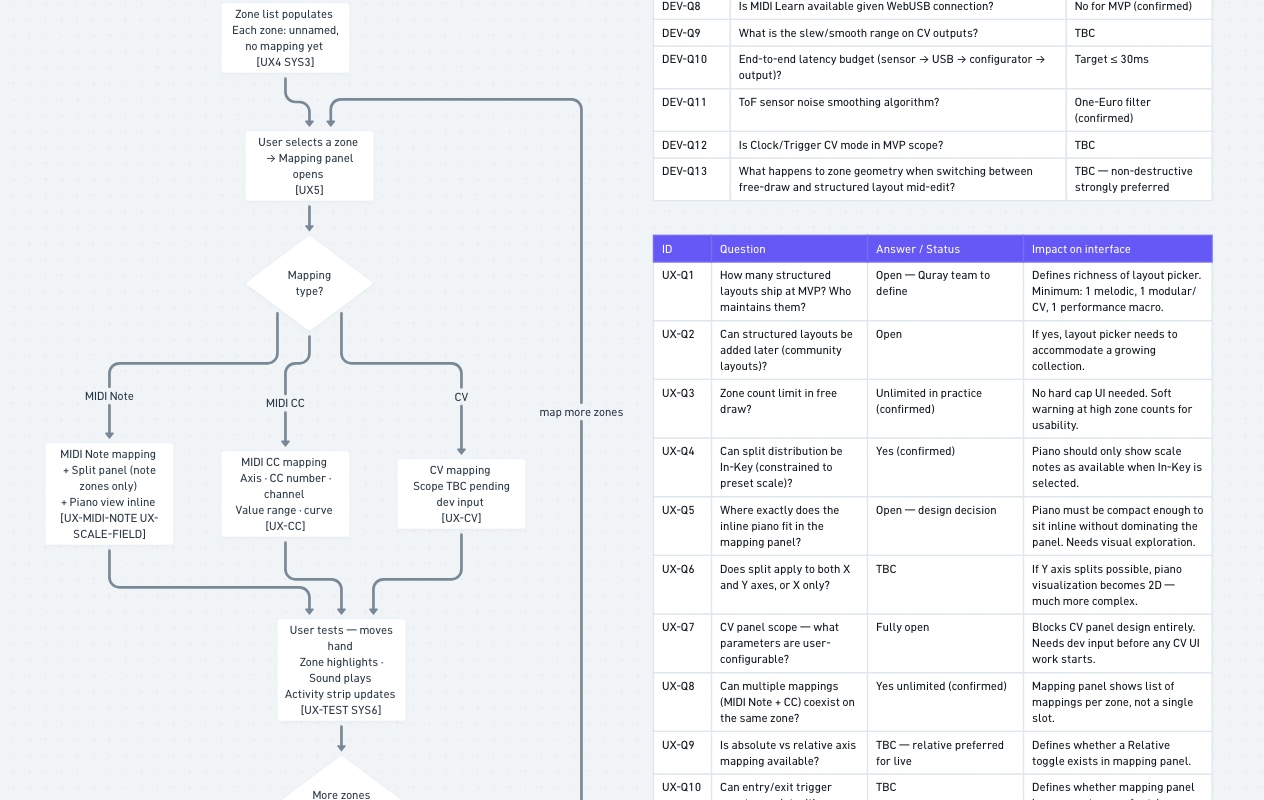
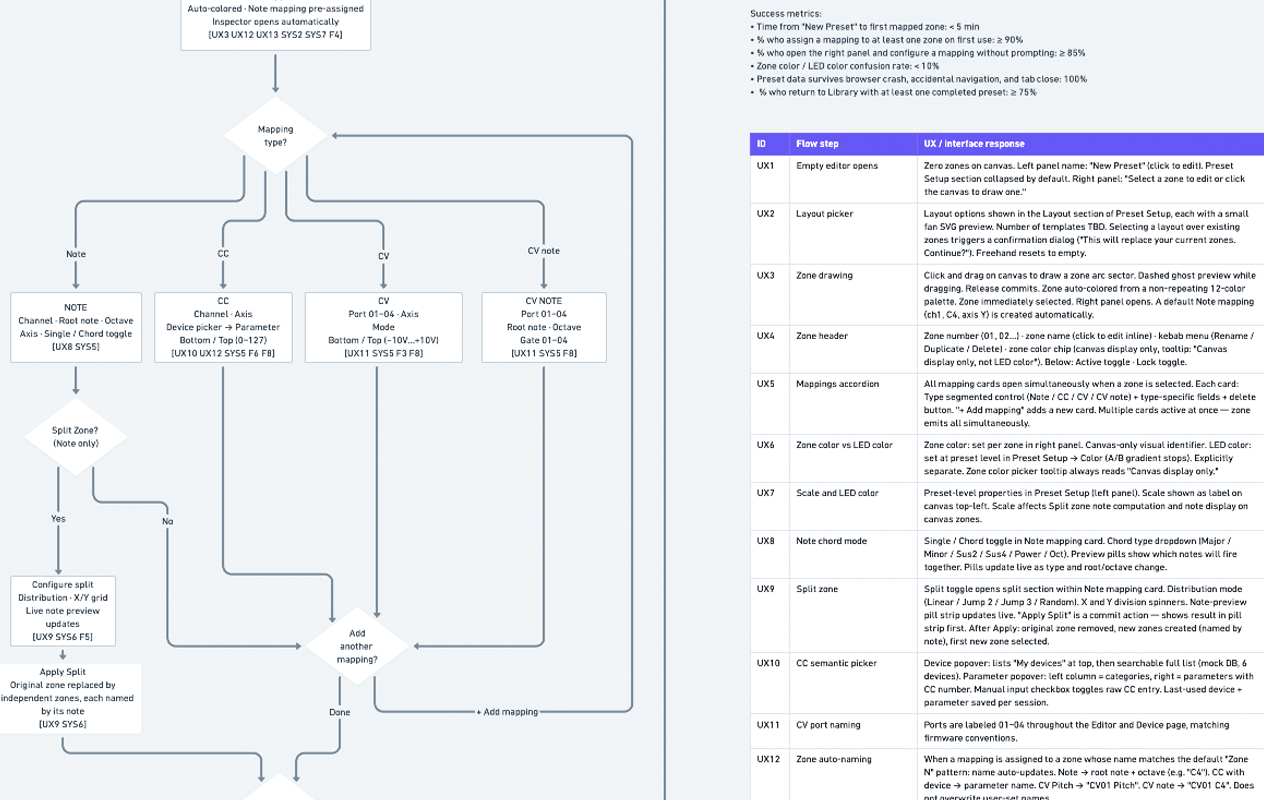
fix: device page layout, table headers, set sending, sidebar collapsed state

diff --git a/quray.html b/quray.html
@@ -1977,13 +1977,14 @@
                      alt="Quray configurator library"
                      class="overview-img-1 order-2 mt-0 w-full rounded-[20px] object-cover aspect-[288/184] md:order-none md:aspect-[1048/656] xl:aspect-[1048/656] 2xl:w-full lqip-fadein"/></div>
 
-                <div class="order-5 flex w-full flex-col gap-y-8 md:gap-y-[16px] xl:gap-y-[16px] 2xl:gap-y-[16px] md:order-5 mt-5 md:mt-0 md:grid md:w-full md:grid-cols-2 md:gap-x-4 md:gap-y-0 xl:flex xl:flex-row xl:gap-x-4 xl:gap-y-0 xl:mt-0 2xl:grid 2xl:w-full 2xl:grid-cols-[400px_1fr] 2xl:gap-x-[16px] 2xl:gap-y-0">
+                <div class="order-5 flex w-full flex-col gap-y-8 md:gap-y-[16px] xl:gap-y-[16px] 2xl:gap-y-[16px] md:order-5 mt-5 md:mt-0 md:grid md:w-full md:grid-cols-2 md:gap-x-4 md:gap-y-0 xl:flex xl:flex-row xl:flex-wrap xl:gap-x-4 xl:gap-y-0 xl:mt-0 2xl:grid 2xl:w-full 2xl:grid-cols-[400px_1fr] 2xl:gap-x-[16px] 2xl:gap-y-0">
                         <div class="lqip-parallax-host min-w-0" data-lqip-ref="assets/images/setup-quray.png"><img src="assets/images/setup-quray.png"
                              alt="Quray setup workflow"
                              class="hidden md:block overview-img-2 aspect-[288/184] w-full shrink-0 rounded-[20px] object-cover md:w-full md:min-w-0 md:aspect-[1048/656] xl:h-[328px] xl:w-[328px] xl:flex-none xl:aspect-square 2xl:h-[400px] 2xl:w-[400px] 2xl:flex-none lqip-fadein"/></div>
                         <div class="lqip-parallax-host min-w-0" data-lqip-ref="assets/images/sets-quray.png"><img src="assets/images/sets-quray.png"
                              alt="Quray sets in the library"
                              class="overview-img-3 aspect-[288/184] w-full rounded-[20px] object-cover md:w-full md:min-w-0 md:aspect-[1048/656] xl:h-[328px] xl:flex-1 xl:min-w-0 2xl:h-[400px] 2xl:w-full 2xl:object-cover lqip-fadein"/></div>
+                        <p class="quray-image-caption mt-4 w-full md:col-span-2 xl:basis-full 2xl:col-span-2">One of the flows — shown here as an example. <a href="https://whimsical.com/olga6695/flow-05-create-new-preset-zone-editor-CnrYjxqSBZ2LtqWX8TWkmN" target="_blank" rel="noopener noreferrer" class="text-inherit underline decoration-[#8A8A8A] underline-offset-2 hover:text-[#0016F2] hover:decoration-[#0016F2]">Open in Whimsical</a></p>
                 </div>
                 </div>
                 </div>
@@ -2068,7 +2069,7 @@
 
                 <div class="max-md:contents md:flex md:w-full md:min-w-0 md:flex-col md:order-4">
                 <div class="flex w-full flex-col order-2 mt-0 min-w-0 max-w-full max-md:order-2 max-md:my-6 md:order-none">
-                <video class="order-2 mt-0 block w-full h-auto rounded-[20px] md:order-none 2xl:w-full"
+                <video class="mt-0 block w-full h-auto rounded-[20px] 2xl:w-full"
                        src="assets/videos/quray-configurator-video.mov"
                        autoplay
                        loop
